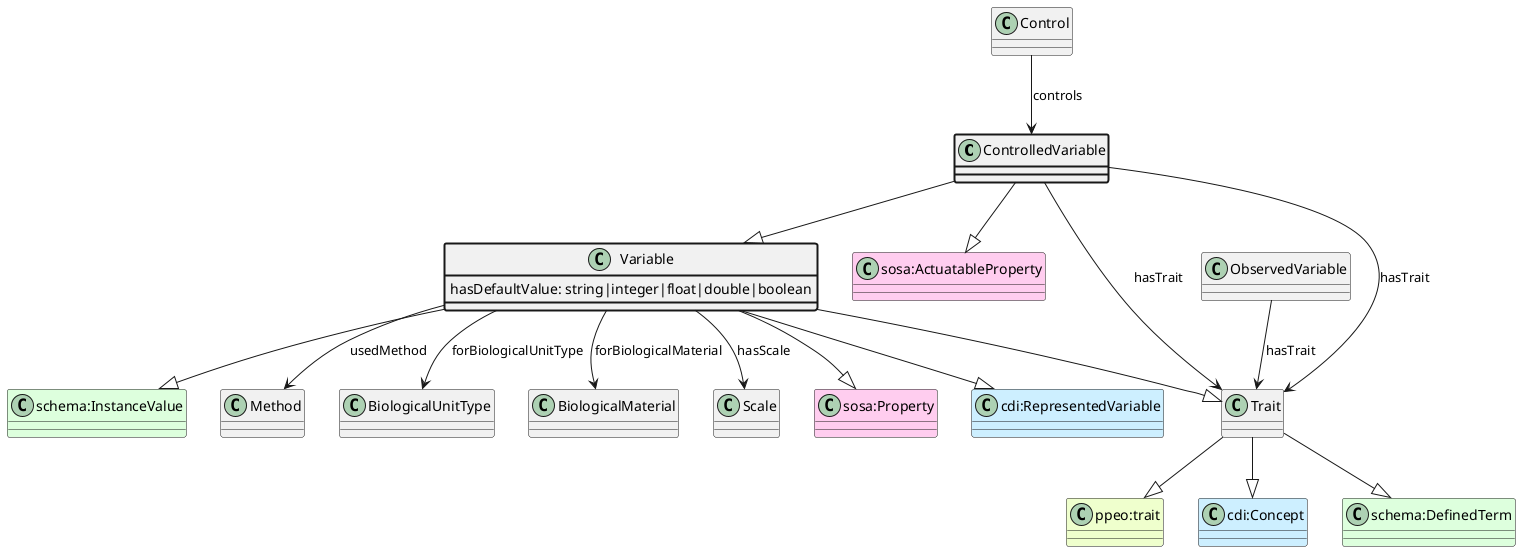
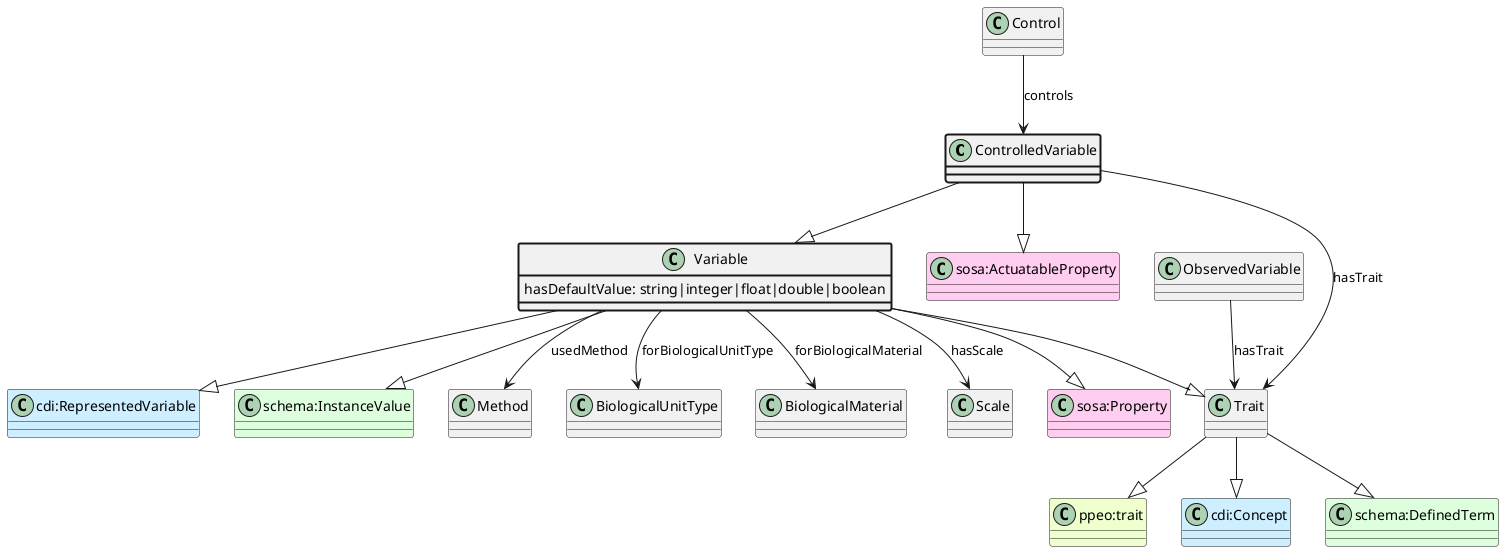
Avoid duplicated property

diff --git a/appn-schema.html b/appn-schema.html
@@ -631,7 +631,7 @@
         <h3>Superclasses</h3>
         <div class="parent"><a href="#File">File</a></div>
         <h3>Properties</h3>
-        <div class="property" id="containsInstancesOf">TableFile <b>containsInstancesOf</b> <a href="http://www.w3.org/2001/XMLSchema#anyURI">http://www.w3.org/2001/XMLSchema#anyURI</a></div>
+        <div class="property" id="containsInstancesOf">TableFile <b>containsInstancesOf</b> <a href="http://www.w3.org/1999/02/22-rdf-syntax-ns#Class">http://www.w3.org/1999/02/22-rdf-syntax-ns#Class</a></div>
         <div class="description">Identifies schema class for which a TableFile serialises instances - the class is identified by its IRI</div>
         <div class="property" id="hasSchema">TableFile <b>hasSchema</b> <a href="#File">File</a></div>
         <div class="description">Identifies schema file for a TableFile</div>

diff --git a/ttl2uml.py b/ttl2uml.py
@@ -228,10 +228,11 @@ def write_properties(
                     heading_written = True
                 if r != cls or not reflexive:
                     r_name = get_name(r)
-                    if r != focus_class:
-                        package_colour = "" if r[0] == "appn" else package_colours[r[0]]
-                        uml.write(f"class {r_name} {package_colour}\n")
-                    uml.write(f"{r_name} --> {class_name} : {ppty_name}\n")
+                    if r[0] != "xsd":
+                        if r != focus_class:
+                            package_colour = "" if r[0] == "appn" else package_colours[r[0]]
+                            uml.write(f"class {r_name} {package_colour}\n")
+                            uml.write(f"{r_name} --> {class_name} : {ppty_name}\n")
                     if cls == focus_class:
                         this_class = f"{focus_class[0]}:{focus_class[1]}"
                     elif cls[0] == "appn":

diff --git a/docs/appn_TableFile.md b/docs/appn_TableFile.md
@@ -10,7 +10,7 @@ A data file containing tabular data in CSV or similar format
 * http://schema.org/CreativeWork
 * http://purl.org/ppeo/PPEO.owl#data_file
 ## Properties
-* appn:TableFile **appn:containsInstancesOf** [xsd:anyURI](http://www.w3.org/2001/XMLSchema#anyURI)
+* appn:TableFile **appn:containsInstancesOf** [rdf:Class](http://www.w3.org/1999/02/22-rdf-syntax-ns#Class)
     * Identifies schema class for which a TableFile serialises instances - the class is identified by its IRI
 * appn:TableFile **appn:hasSchema** [appn:File](appn_File.md)
     * Identifies schema file for a TableFile
